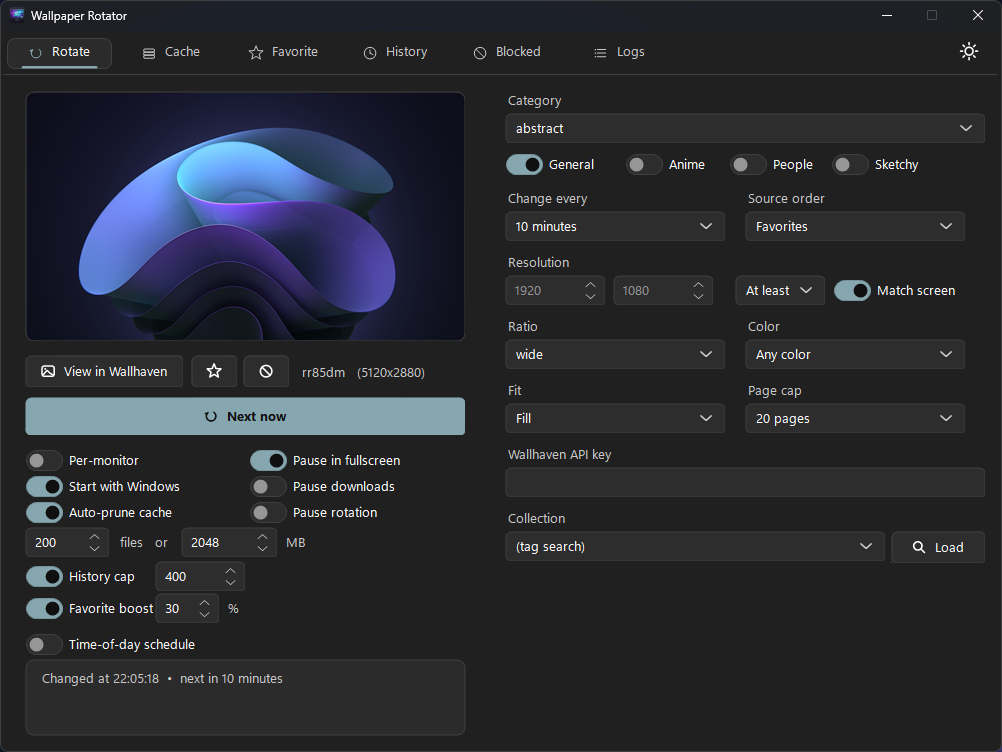
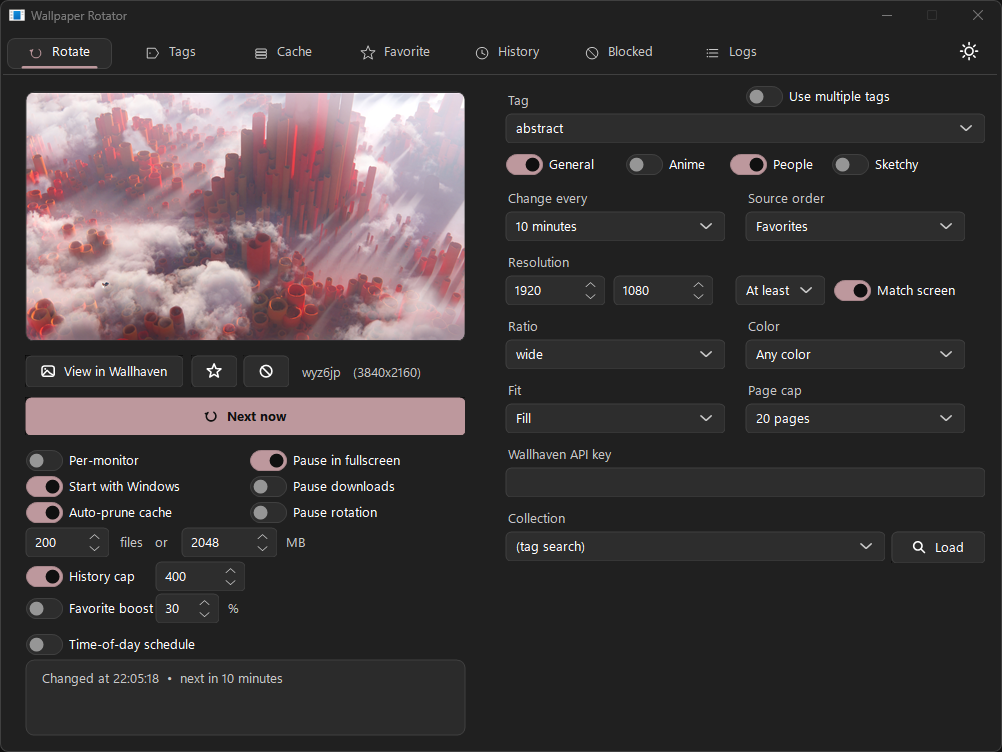
Refresh README with new screenshots and the 1.4.0 feature list
Replace the hero shot with the current Tag label and a filled status card, add a Tags-tab screenshot, document tag pools, drag reordering, the schedule lock and the Category-to-Tag rename, and add the Discord handle to the Author section.

diff --git a/README.md b/README.md
@@ -2,7 +2,16 @@
 
 A **Wallpaper Rotator** for Windows — a C# / .NET 10 desktop app that turns [Wallhaven](https://wallhaven.cc) into an endless, smartly-filtered slideshow for your desktop. Search millions of wallpapers with deep filters, rotate on a schedule (or by real sunrise/sunset), protect favorites, block the misses, manage the cache, and give every monitor its own wallpaper — all from a Fluent (Windows 11) tray-resident app.
 
-![Screenshot](Screenshot.png)
+![Wallpaper Rotator — Rotate tab](Screenshot.png)
+
+## 🆕 What's new in 1.4.0
+
+- 🏷 **Tags tab with tag pools** — a dedicated tab with searchable **Included** and **Excluded** lists. Rotation picks one included tag at a time (in order or shuffle-bag) and every search filters out the excluded tags. Suggestions come from Wallhaven's live tag catalogue.
+- ↕ **Drag to reorder** — drag any Included row (background, number or name) to change the rotation order, with an accent insertion line and edge auto-scroll. The arrows still work, and the **Next** tag stays selected after a move.
+- 🔒 **Time-of-day schedule lock** — the tag pool and the schedule both choose the tag, so turning **Use multiple tags** on now switches the schedule off and disables its toggle. Turn the pool off to re-enable it; the four slot tags are kept.
+- 🏷 **Clearer labelling** — the Rotate tab's **Category** field is now simply **Tag**, matching Wallhaven's terminology throughout the app.
+
+![Wallpaper Rotator — Tags tab](Screenshot-Tags.png)
 
 ## ✨ Features
 
@@ -106,7 +115,7 @@ What began as *"can I rotate Wallhaven wallpapers with a small script?"* grew in
 
 ## 🙌 Author
 
-**Nitish** — github.com/nitishengineer
+**Nitish** — [github.com/nitishengineer](https://github.com/nitishengineer) · Discord: `m_o_r_p`
 
 ## 📄 License
 
